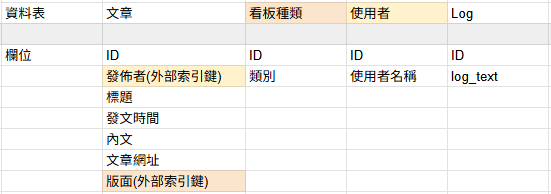
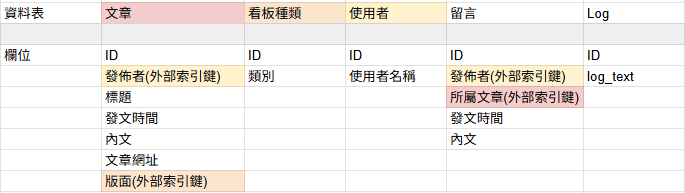
starting datacrawl

diff --git a/api/ptt_datacrawl.py b/api/ptt_datacrawl.py
@@ -1,20 +1,64 @@
-from bs4 import BeautifulSoup
+"""
+要求
+
+挑五個PTT版面，爬取過去一年資料，並定期取得新資料，注意爬文程式物件導向與抽象化
+五個版面爬蟲需每小時定時執行一次（celery beat）
+爬蟲需要可以穩定執行三天以上 (需有 log 佐證) (log 請存放在資料庫) (Hint：需要在資料庫當中建立資料表儲存)
+"""
+
 import requests
-from datetime import datetime
+from bs4 import BeautifulSoup
+from db.base import Database
 
-def get_soup(url):
-    r = requests.get(url)
-    soup = BeautifulSoup(r.text, "html.parser")
-    return soup
+# db = Database(
+#     host='localhost',
+#     user='test',
+#     password='123456',
+#     database='ptt'
+# )
 
-# 目標看版
-# Stock
-# Baseball
-# NBA
-# HatePolitics
-# Lifeismoney
 
-all_boards = ['Stock','Baseball','NBA','HatePolitics','Lifeismoney']
+def get_soup(from_url):
+    r = requests.get(from_url)
+    if r.status_code == 200:
+        return BeautifulSoup(r.text, "html.parser")
+    return None
+
+
+def get_one_article(a_tag):
+    article_soup = get_soup("https://www.ptt.cc" + a_tag.get("href"))
+    all_divs_tags = article_soup.select("div.article-metaline > span.article-meta-tag")
+    all_divs_values = article_soup.select("div.article-metaline > span.article-meta-value")
+    if len(all_divs_values) == 0:
+        return None
+
+    # 作者、標題、時間
+    for div_tag, value in zip(all_divs_tags, all_divs_values):
+        print(div_tag.text + ': ' + value.text)
+
+    # 內文
+    print(article_soup.text.split(all_divs_values[-1].text)[-1].split("※ 發信站:")[0])
+
+    # 留言
+    comments = article_soup.select("div.push")
+    if len(comments) != 0:
+        for comment in comments:
+            print(comment.text)
+
+        return None
+
+    return None
+
+
+# 目標看版 ['Stock','Baseball','NBA','HatePolitics','Lifeismoney']
+
+all_boards = ['Stock', 'Baseball', 'NBA', 'HatePolitics', 'Lifeismoney']
 
 # 某 <board> url(最新) https://www.ptt.cc/bbs/<board>/index.html
 
+url = "https://www.ptt.cc/bbs/{board}/{page}"
+for board in all_boards:
+    soup = get_soup(url.format(board=board, page="index.html"))
+    all_a_tags = soup.select("div.r-ent > .title > a")
+    for tag in all_a_tags:
+        get_one_article(tag)

diff --git a/model/ptt_content.py b/model/ptt_content.py
@@ -1,0 +1,42 @@
+from sqlalchemy import Column, Integer, String, Text, DateTime, ForeignKey
+from sqlalchemy.orm import relationship, declarative_base
+from datetime import datetime
+
+Base = declarative_base()
+
+class User(Base):
+    __tablename__ = 'users'
+    id = Column(Integer, primary_key=True)
+    username = Column(String, unique=True, nullable=False)
+    posts = relationship('Post', back_populates='author')
+    comments = relationship('Comment', back_populates='user')
+
+class Board(Base):
+    __tablename__ = 'boards'
+    id = Column(Integer, primary_key=True)
+    name = Column(String, unique=True, nullable=False)
+    posts = relationship('Post', back_populates='board')
+
+class Post(Base):
+    __tablename__ = 'posts'
+    id = Column(Integer, primary_key=True)
+    title = Column(String, nullable=False)
+    content = Column(Text)
+    created_at = Column(DateTime, default=datetime.utcnow)
+    author_id = Column(Integer, ForeignKey('users.id'))
+    board_id = Column(Integer, ForeignKey('boards.id'))
+
+    author = relationship('User', back_populates='posts')
+    board = relationship('Board', back_populates='posts')
+    comments = relationship('Comment', back_populates='post')
+
+class Comment(Base):
+    __tablename__ = 'comments'
+    id = Column(Integer, primary_key=True)
+    content = Column(Text)
+    created_at = Column(DateTime, default=datetime.utcnow)
+    post_id = Column(Integer, ForeignKey('posts.id'))
+    user_id = Column(Integer, ForeignKey('users.id'))
+
+    post = relationship('Post', back_populates='comments')
+    user = relationship('User', back_populates='comments')

diff --git a/db/base.py b/db/base.py
@@ -1,0 +1,41 @@
+import pymysql
+
+
+class Database:
+    def __init__(self, host, user, password, database, port=3306):
+        self.conn = pymysql.connect(
+            host=host,
+            user=user,
+            password=password,
+            database=database,
+            port=port,
+            charset='utf8mb4'
+        )
+        self.cursor = self.conn.cursor()
+
+    def create_table(self):
+        sql = """
+        CREATE TABLE IF NOT EXISTS posts (
+            id INT AUTO_INCREMENT PRIMARY KEY,
+            title VARCHAR(255) NOT NULL,
+            author VARCHAR(100),
+            date DATE,
+            url VARCHAR(500),
+            created_at TIMESTAMP DEFAULT CURRENT_TIMESTAMP
+        )
+        """
+        self.cursor.execute(sql)
+        self.conn.commit()
+
+    def insert_post(self, **kwargs):
+        columns = ', '.join(kwargs.keys())
+        placeholders = ', '.join(['%s'] * len(kwargs))
+        values = tuple(kwargs.values())
+
+        sql = f"INSERT INTO posts ({columns}) VALUES ({placeholders})"
+        self.cursor.execute(sql, values)
+        self.conn.commit()
+
+    def close(self):
+        self.cursor.close()
+        self.conn.close()

diff --git a/docs/README.md b/docs/README.md
@@ -22,13 +22,13 @@
         - base.py
       - main.py
 - 資料表設計
-  > ![資料表設計.png](img/資料表設計.png)
+  > ![資料表設計.png](img/%E8%B3%87%E6%96%99%E8%A1%A8%E8%A8%AD%E8%A8%88.png)
 - 簡易前端設計
-  > ![簡易前端設計.png](img/簡易前端設計.png)
+  > ![簡易前端設計.png](img/%E7%B0%A1%E6%98%93%E5%89%8D%E7%AB%AF%E8%A8%AD%E8%A8%88.png)
 - 運作流程圖
   > ![運作流程圖.png](drawio-pic/%E9%81%8B%E4%BD%9C%E6%B5%81%E7%A8%8B%E5%9C%96.png)
 - 規劃時程表
-  > ![工作拆分與時程規劃-時間軸.png](drawio-pic/%E5%B7%A5%E4%BD%9C%E6%8B%86%E5%88%86%E8%88%87%E6%99%82%E7%A8%8B%E8%A6%8F%E5%8A%83-%E6%99%82%E9%96%93%E8%BB%B8.png)
+  > ![工作拆分與時程規劃-時間軸.png](img/%E5%B7%A5%E4%BD%9C%E6%8B%86%E5%88%86%E8%88%87%E6%99%82%E7%A8%8B%E8%A6%8F%E5%8A%83-%E6%99%82%E9%96%93%E8%BB%B8.png)
 
 - 環境需求
   - 資料庫種類：mariadb
